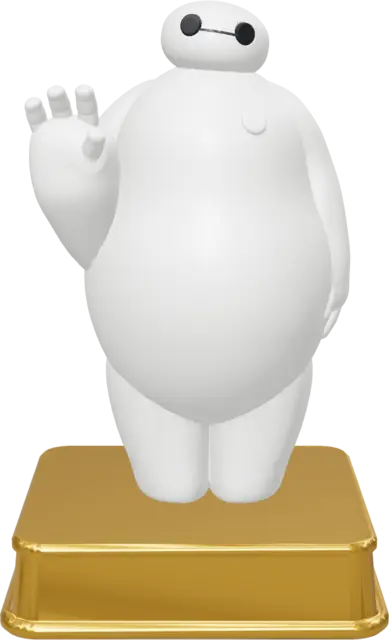
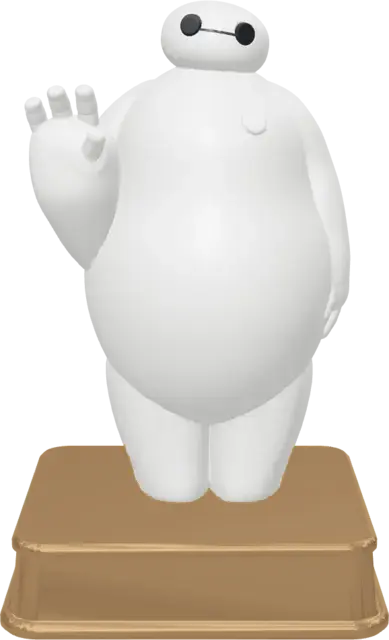
Prizes: wooden bases, no captions under the trophies
Claude-Session: https://claude.ai/code/session_019NXdTs21PH5673NJCZm71Y

Changed region(s): [[0.0, 0.8125, 1.0, 1.0], [0.5244, 0.75, 0.5553, 0.7812], [0.3393, 0.75, 0.3702, 0.7812]]

diff --git a/src/utils/lineRobotCompetition.js b/src/utils/lineRobotCompetition.js
@@ -120,9 +120,9 @@ export const lineRobotCompetition = {
     },
   ],
   prizes: [
-    { place: 1, title: 'Birincilik', trophy: 'Megabot', base: 'Gümüş rengi kaide', height: '24 cm', image: 'yarisma/cizgi-izleyen-robot/kupa-megabot.webp' },
-    { place: 2, title: 'İkincilik', trophy: 'Baymax', base: 'Altın rengi kaide', height: '26 cm', image: 'yarisma/cizgi-izleyen-robot/kupa-baymax.webp' },
-    { place: 3, title: 'Üçüncülük', trophy: 'Microbot', base: 'Bronz rengi kaide', height: '21 cm', image: 'yarisma/cizgi-izleyen-robot/kupa-microbot.webp' },
+    { place: 1, title: 'Birincilik', trophy: 'Megabot', image: 'yarisma/cizgi-izleyen-robot/kupa-megabot.webp' },
+    { place: 2, title: 'İkincilik', trophy: 'Baymax', image: 'yarisma/cizgi-izleyen-robot/kupa-baymax.webp' },
+    { place: 3, title: 'Üçüncülük', trophy: 'Microbot', image: 'yarisma/cizgi-izleyen-robot/kupa-microbot.webp' },
   ],
   faq: [
     { q: 'Nasıl başvururum?', a: 'Başvurular Google Form üzerinden alınır; bu sayfanın üstündeki “Başvuru formu” butonundan forma ulaşabilirsin. Takımlarda formu bir kişi, takım adına doldurur.' },

diff --git a/src/pages/LineRobotCompetitionPage.jsx b/src/pages/LineRobotCompetitionPage.jsx
@@ -282,9 +282,6 @@ function Prizes() {
             </div>
             <figcaption className="border-t border-slate-200 px-4 py-3 dark:border-white/10">
               <p className="font-semibold text-slate-900 dark:text-white">{prize.title}</p>
-              <p className="text-sm text-slate-600 dark:text-slate-300">
-                {prize.trophy} kupası, {prize.base.toLocaleLowerCase('tr')}, {prize.height}
-              </p>
             </figcaption>
           </figure>
         ))}
